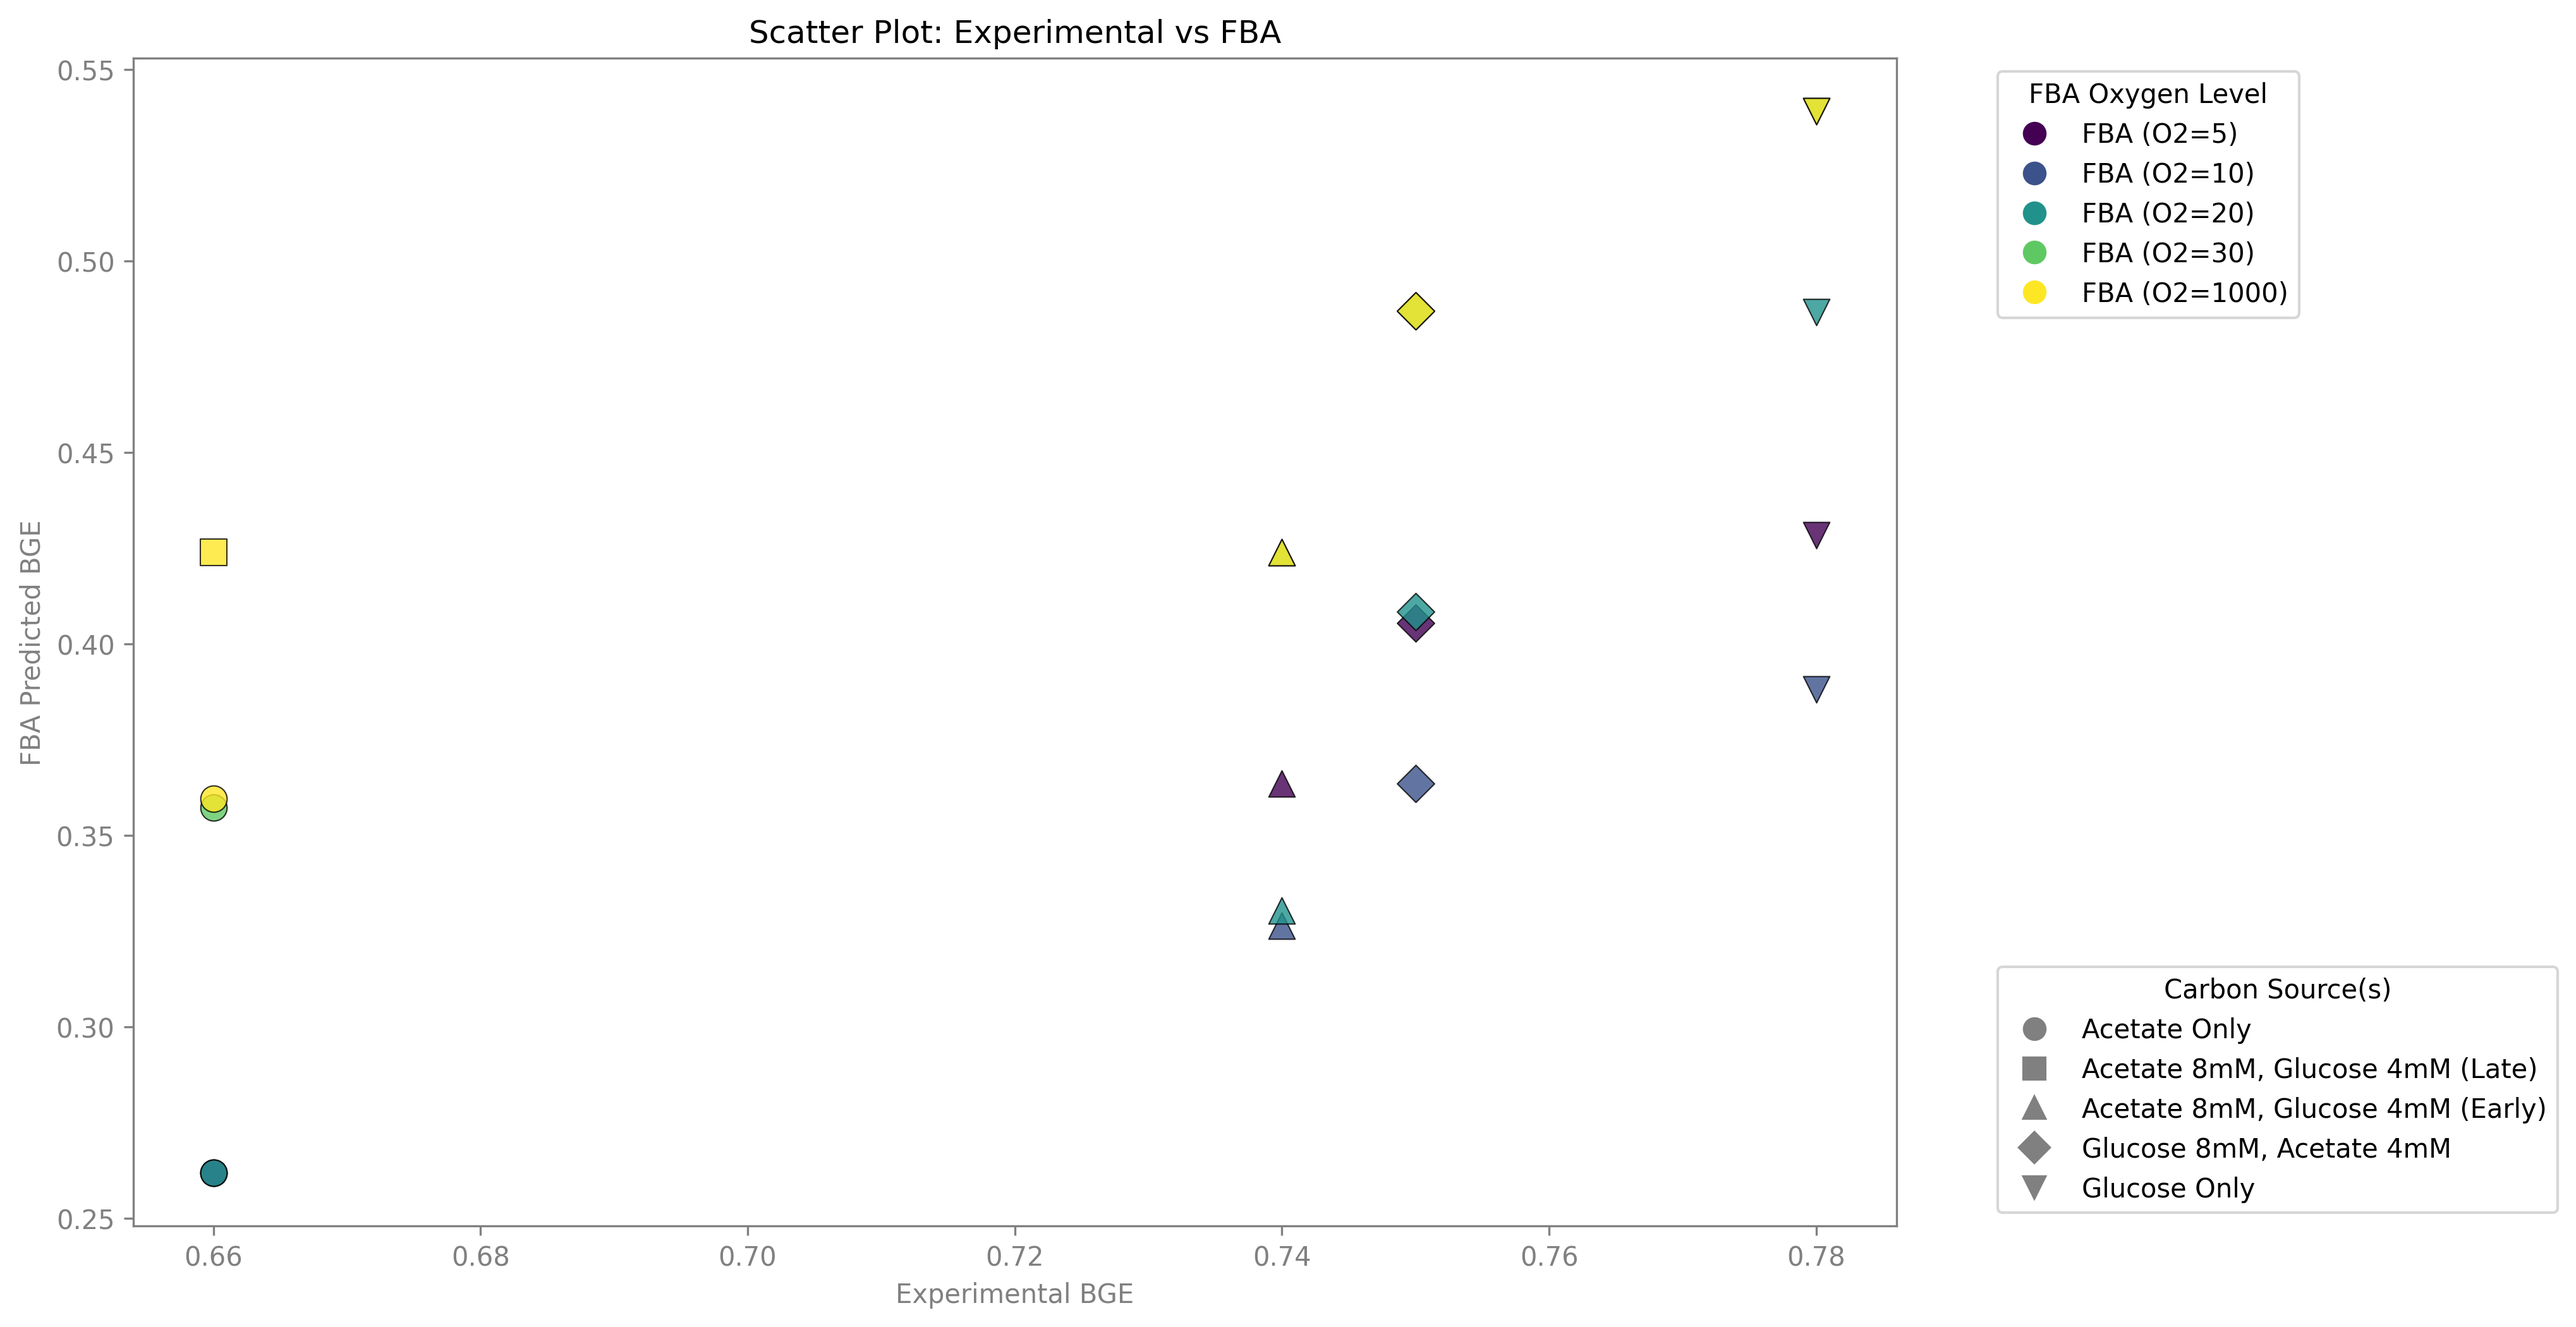
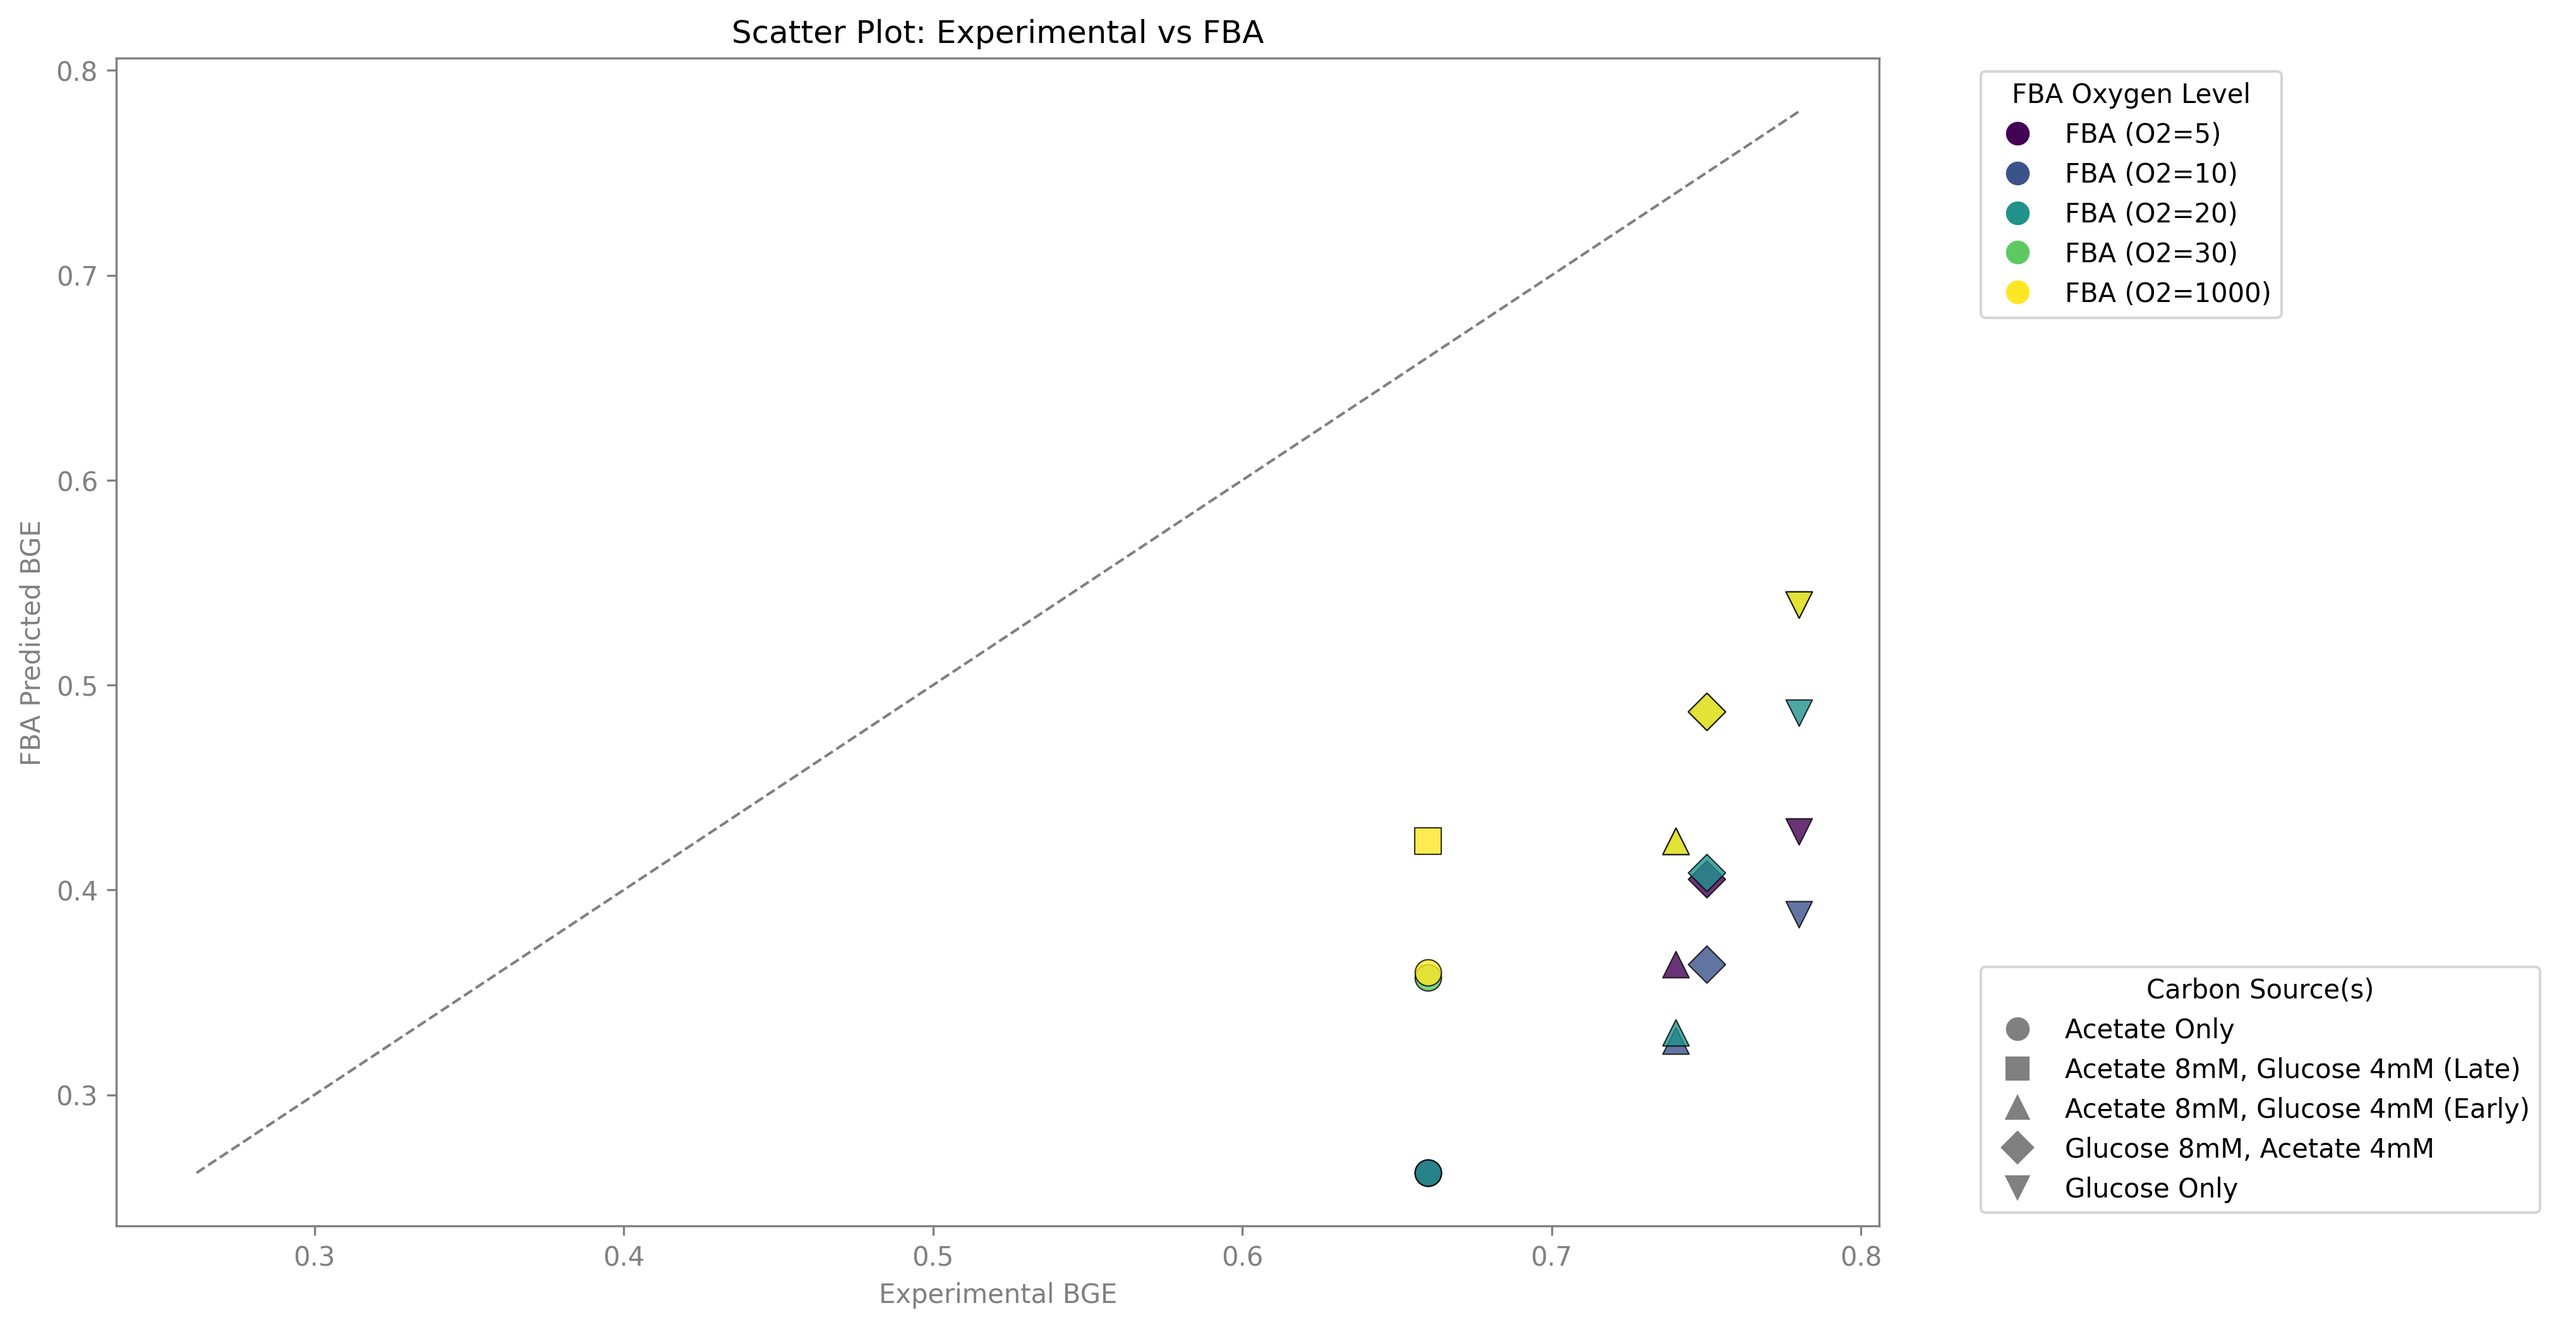
Add a 1:1 line

diff --git a/mit1002_full/glc_and_ace/vs_experimental/plot_exp_vs_pred_cue.py b/mit1002_full/glc_and_ace/vs_experimental/plot_exp_vs_pred_cue.py
@@ -124,6 +124,18 @@ for fba_col in fba_cols:
                 linewidths=0.5,
             )
 
+# Plot a diagonal line for reference
+min_value = min(bge_df_transposed.values.flatten())
+max_value = max(bge_df_transposed.values.flatten())
+ax.plot(
+    [min_value, max_value],
+    [min_value, max_value],
+    color="gray",
+    linestyle="--",
+    linewidth=1,
+    label="1:1 Line",
+)
+
 # Create custom legends
 # For colors (FBA conditions)
 color_legend_elements = [
